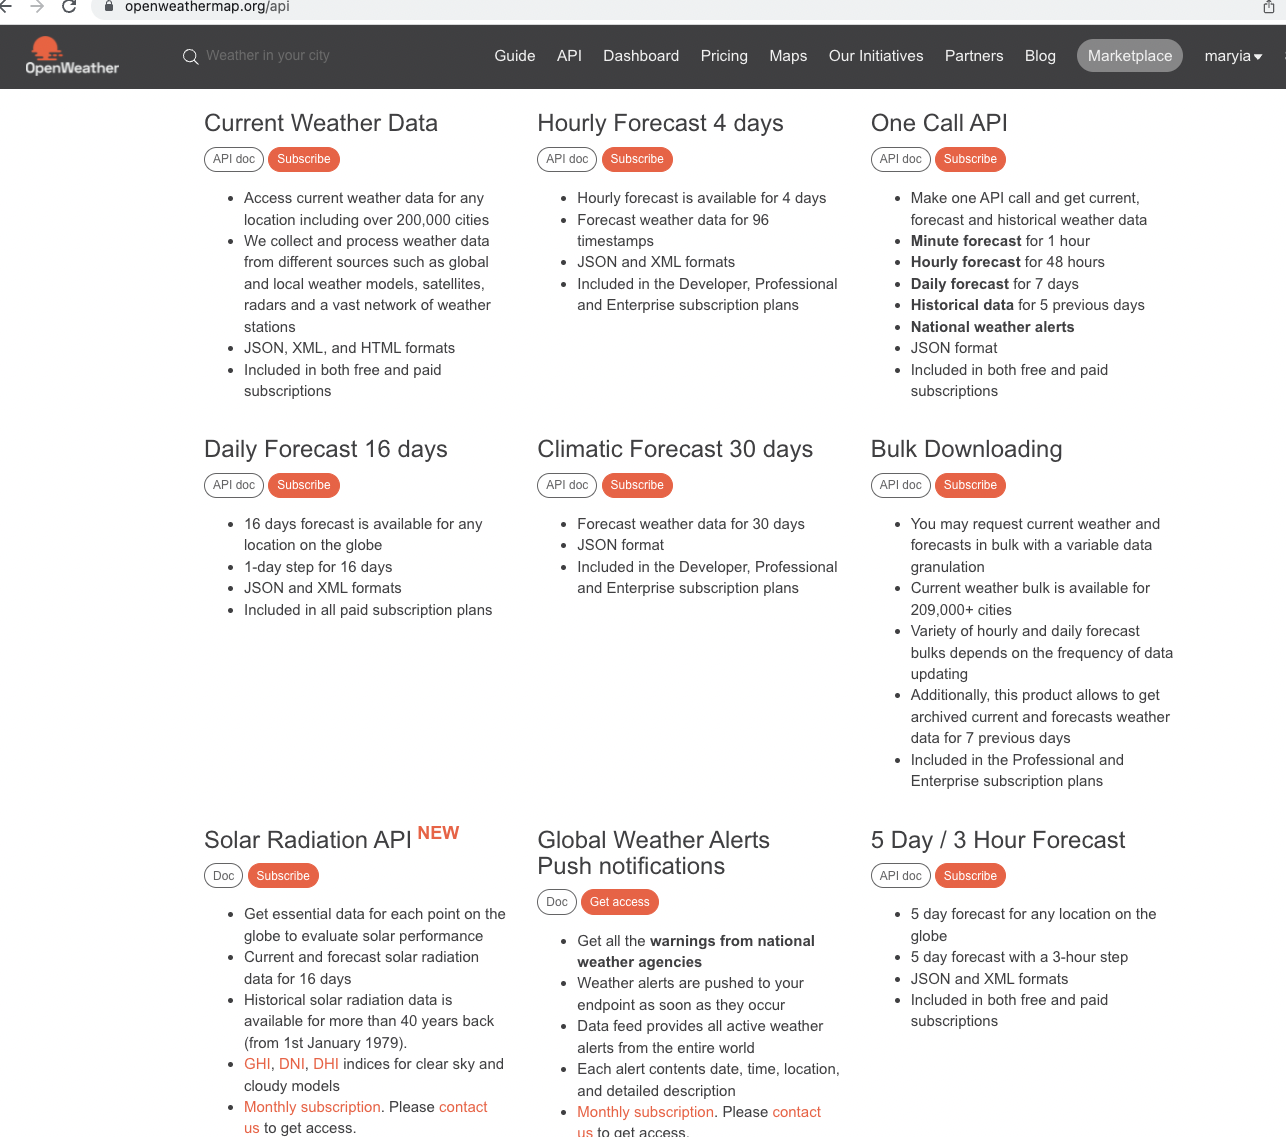
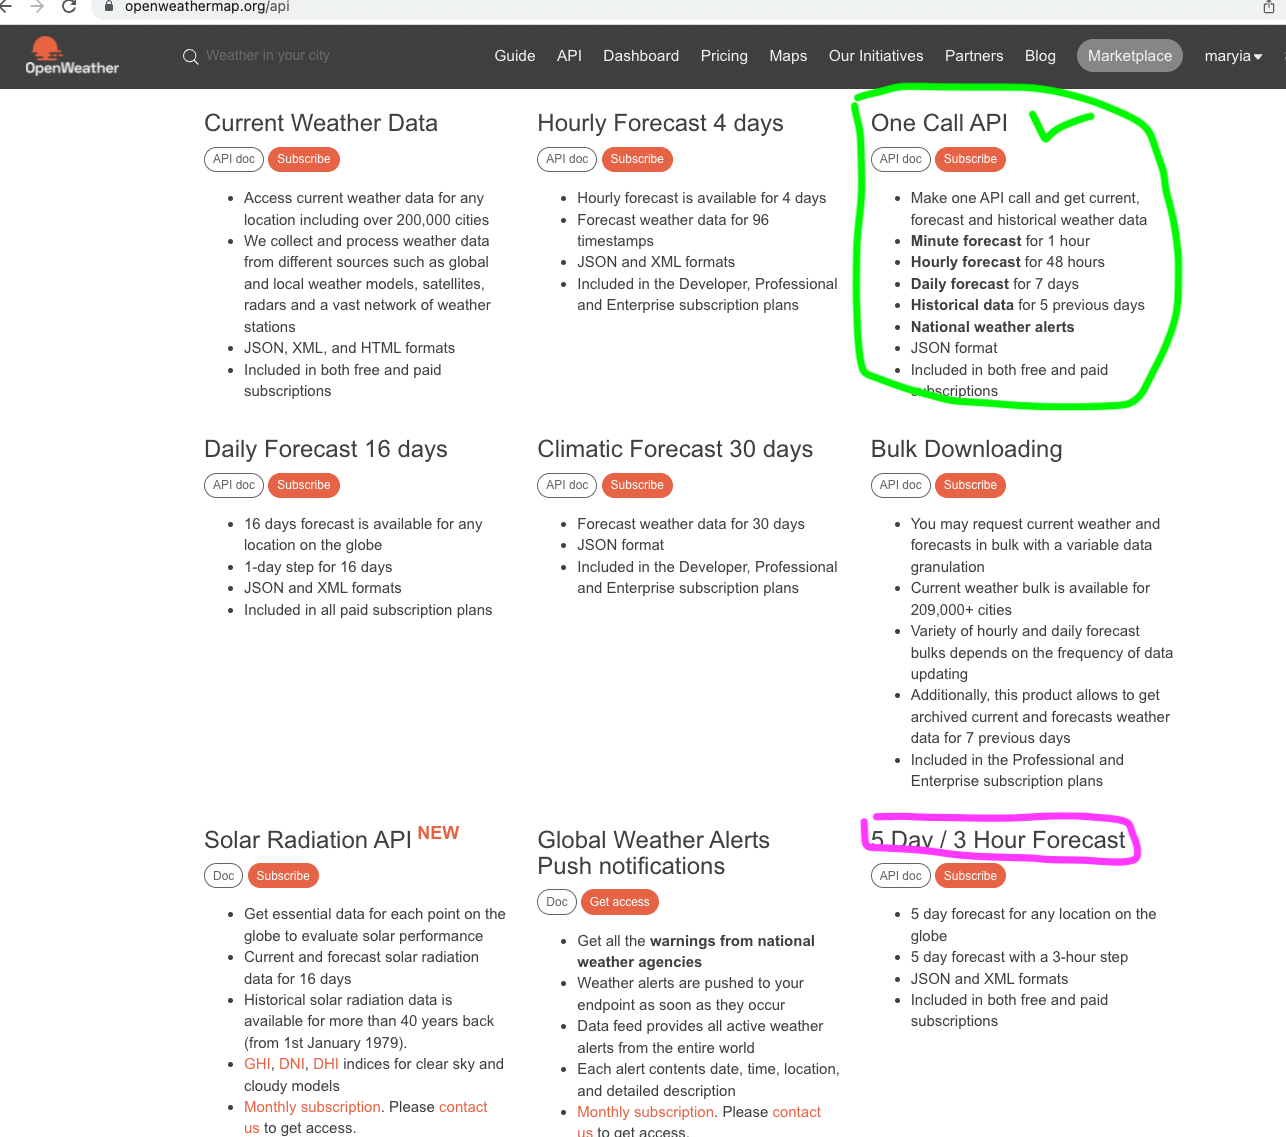
week6 is added

Changed region(s): [[0.6532, 0.0616, 0.902, 0.3694], [0.6532, 0.708, 0.902, 0.7696], [0.902, 0.1539, 0.9331, 0.3078]]

diff --git a/README.md b/README.md
@@ -3,10 +3,10 @@
 Develop APP weather-checker. Target was to set list of researhed cities in storage, Set the 5 days of weather for current city and show in header current parameters for this city with icons, color indecator for UV factor. Using API's 
 
 
-![screenshot](./assets/1)
+![screenshot](assets/1.png)
 
-Had issues to copy right one API (first time copied from 5 Day/ 3hour Forecast instead of One Call API). All parameters took from wrong one but TA helped me to figure it out. 
- ![Screenshot](./assets/2)
+Had issues to copy right one API (first time copied from 5 Day/ 3hour Forecast instead of One Call API). All parameters took from wrong one but TA helped me to figure it out. Green check box - is correct resourse, pink - which I took fir the first time
+ ![Screenshot](assets/2.png)
 
  Also, the icon and parameters weren't show up on the header - because took doc.parameters from wrong table (didn't know that we can take it from console - so helpful). 
 
